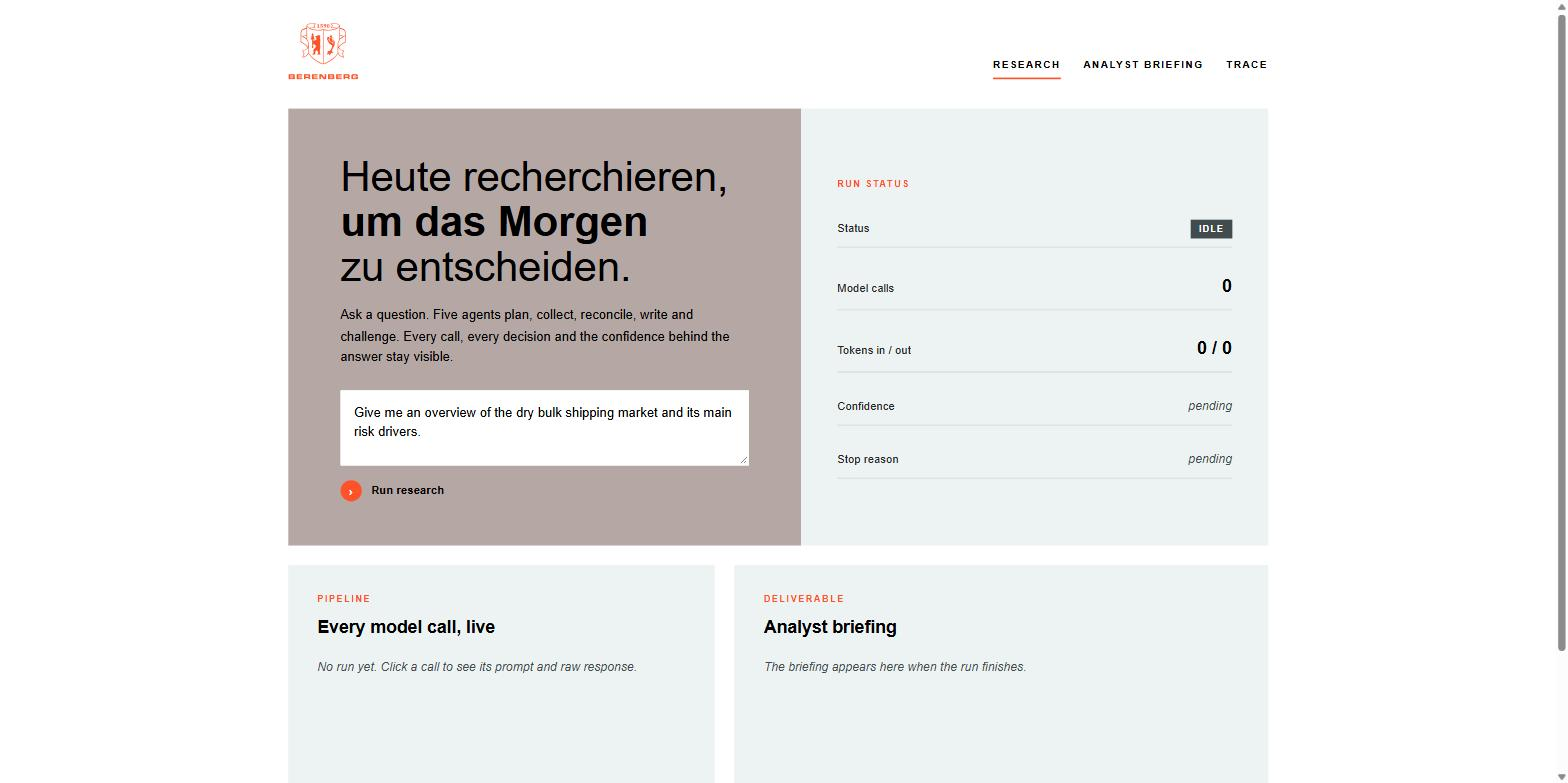
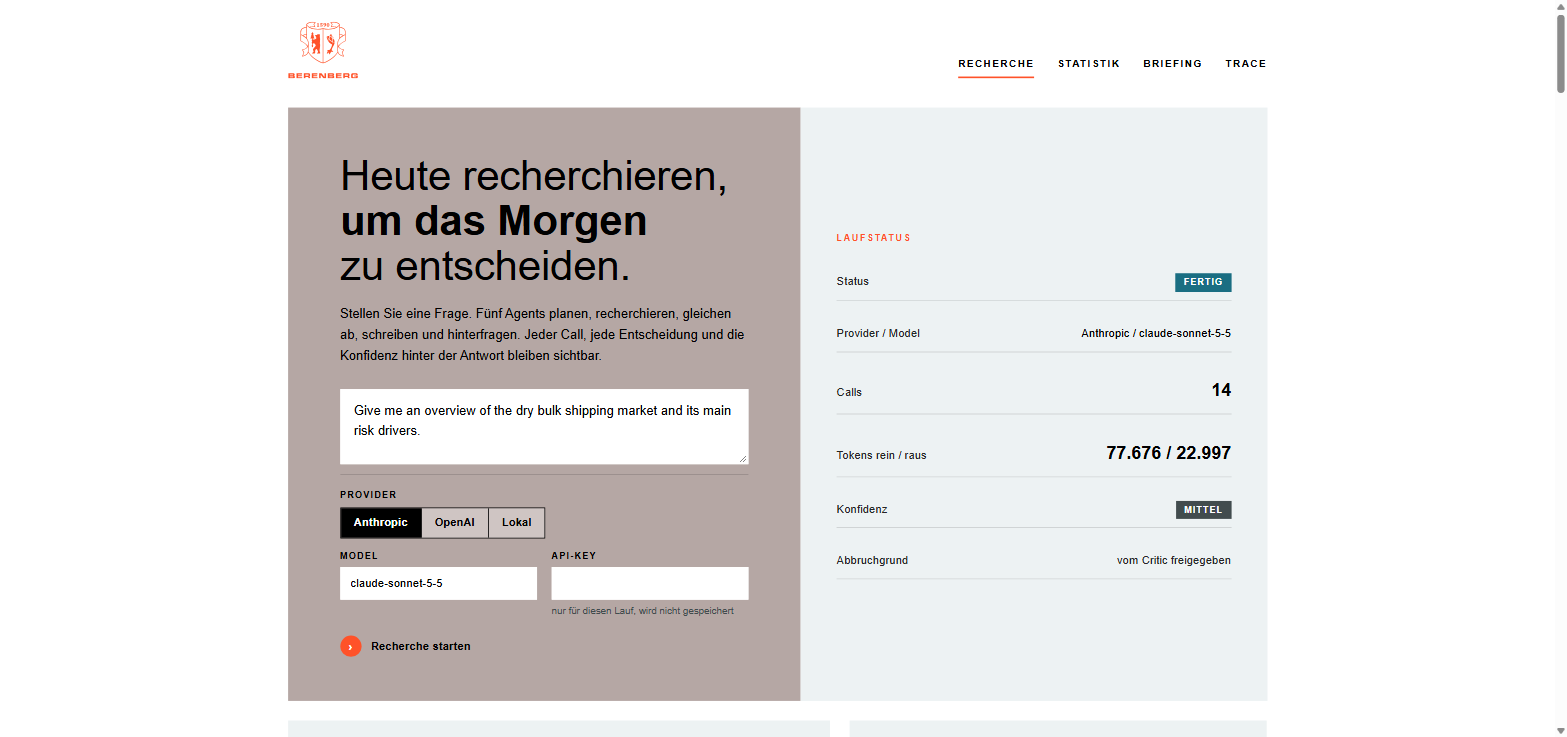
Screenshots of the finished run, pipeline view and coverage reports

diff --git a/README.md b/README.md
@@ -10,6 +10,7 @@ Turns a free-text analyst question into a structured briefing with a confidence 
 ---
 
 <img src="docs/web-ui.png" width="49%"> <img src="docs/web-ui-stats.png" width="49%">
+<img src="docs/web-ui-pipeline.png" width="49%"> <img src="docs/coverage-core.png" width="49%">
 
 ---
 ## Run it
@@ -33,6 +34,10 @@ The CLI does the same without a browser and reads the key from the environment:
 java -jar research-pipeline.jar --query "Give me an overview of the dry bulk shipping market and its main risk drivers."
 ./mvnw -B test        # tests only; JaCoCo enforces 100% line and branch coverage, report under core|app/target/site/jacoco
 ```
+
+JaCoCo report of the current build, both modules at 100 percent line and branch coverage:
+
+<img src="docs/coverage-core.png" width="49%"> <img src="docs/coverage-app.png" width="49%">
 
 - `LLM_PROVIDER`: `anthropic` (default), `openai` or `local`
 - `ANTHROPIC_API_KEY`, `ANTHROPIC_MODEL` (default `claude-sonnet-5-5`), `ANTHROPIC_API_URL`
